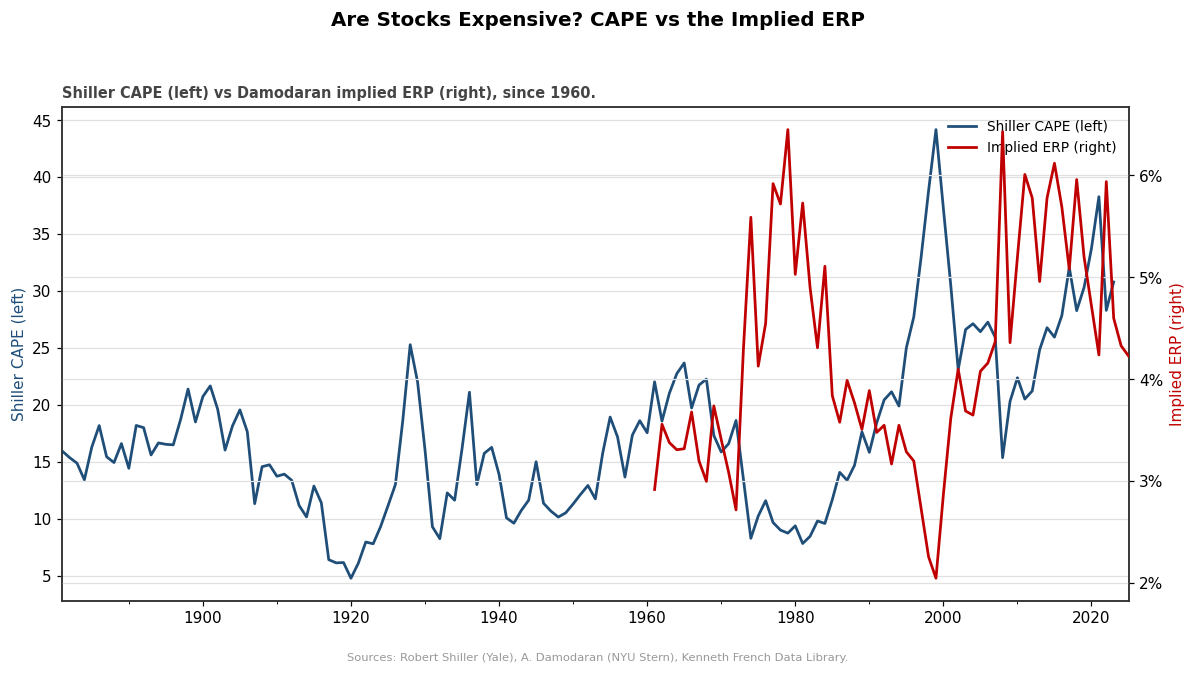
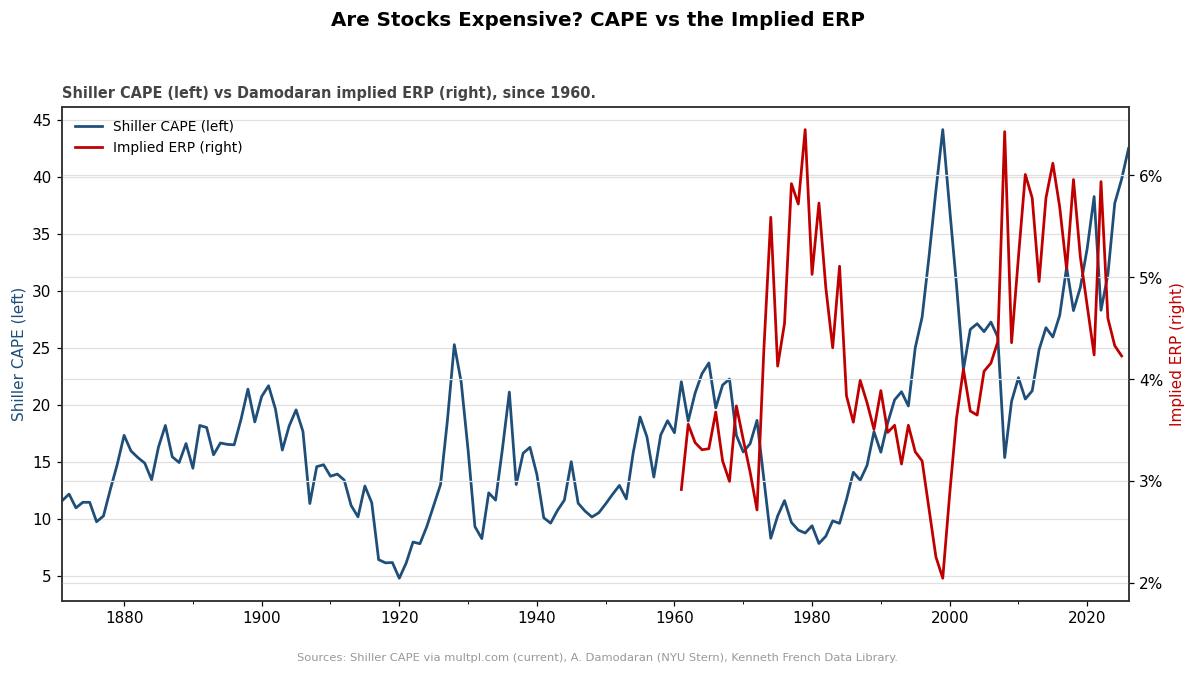
@ market: source Shiller CAPE live from multpl.com (Yale file is stale)
Robert Shiller publishes ie_data.xls only irregularly -- the copy we mirror
lagged ~2 years (to 2023-09, CAPE 30.8), badly understating todays valuation.
The CAPE itself is current at multpl.com (his underlying series, back to 1871).

- market/cape.py: fetch_cape_multpl() scrapes the monthly table (regex skips
  the &#x2002; en-space entity in the value cell); load_cape() prefers live
  multpl (cached to data/), falling back to the mirror then the stale Yale xls.
- build_charts: CAPE charts now use the live series. Latest 42.5 (Jun 2026),
  99th percentile since 1881 -- near the all-time high (only 2000 was higher);
  the 2024-26 surge that was previously cut off now shows.
- test +1 (entity-skip regex regression). 158 total green.

@

diff --git a/readable/market/index.html b/readable/market/index.html
@@ -11,5 +11,5 @@
 <h1>Top-Down Market Data — Charts</h1>
 <p class="meta">Valuation &amp; factor history from Shiller (CAPE), Damodaran (implied ERP) and
 Ken French (factors). · <a href="../index.html">↑ workspace hub</a> · 5 charts</p>
-<section><h2>Shiller CAPE vs History</h2><p class="sub">Cyclically-adjusted P/E (10-yr real earnings). Latest is in the 95th percentile of its 1881→ history.</p><img src="cape_history.png" alt="Shiller CAPE vs History"/></section><section><h2>Implied Equity Risk Premium (Damodaran)</h2><p class="sub">The forward-looking ERP the market is pricing in, back-solved from S&P prices/cashflows.</p><img src="implied_erp.png" alt="Implied Equity Risk Premium (Damodaran)"/></section><section><h2>Are Stocks Expensive? CAPE vs the Implied ERP</h2><p class="sub">High CAPE + low ERP = richly priced. The two valuation lenses, aligned.</p><img src="valuation_panel.png" alt="Are Stocks Expensive? CAPE vs the Implied ERP"/></section><section><h2>Fama-French Factors — Growth of $1 (log)</h2><p class="sub">Cumulative factor returns since 1926. Log scale — a straight line is a constant compound rate.</p><img src="factor_returns.png" alt="Fama-French Factors — Growth of $1 (log)"/></section><section><h2>The Value Premium (HML) Over Time</h2><p class="sub">Cumulative value-minus-growth return. The long plateau/drawdown since ~2007 is the 'value winter'.</p><img src="value_premium.png" alt="The Value Premium (HML) Over Time"/></section>
+<section><h2>Shiller CAPE vs History</h2><p class="sub">Cyclically-adjusted P/E (10-yr real earnings). Latest is in the 99th percentile of its 1881→ history.</p><img src="cape_history.png" alt="Shiller CAPE vs History"/></section><section><h2>Implied Equity Risk Premium (Damodaran)</h2><p class="sub">The forward-looking ERP the market is pricing in, back-solved from S&P prices/cashflows.</p><img src="implied_erp.png" alt="Implied Equity Risk Premium (Damodaran)"/></section><section><h2>Are Stocks Expensive? CAPE vs the Implied ERP</h2><p class="sub">High CAPE + low ERP = richly priced. The two valuation lenses, aligned.</p><img src="valuation_panel.png" alt="Are Stocks Expensive? CAPE vs the Implied ERP"/></section><section><h2>Fama-French Factors — Growth of $1 (log)</h2><p class="sub">Cumulative factor returns since 1926. Log scale — a straight line is a constant compound rate.</p><img src="factor_returns.png" alt="Fama-French Factors — Growth of $1 (log)"/></section><section><h2>The Value Premium (HML) Over Time</h2><p class="sub">Cumulative value-minus-growth return. The long plateau/drawdown since ~2007 is the 'value winter'.</p><img src="value_premium.png" alt="The Value Premium (HML) Over Time"/></section>
 </body></html>

diff --git a/market/cape.py b/market/cape.py
@@ -1,0 +1,61 @@
+"""Current Shiller CAPE from multpl.com.
+
+Robert Shiller's downloadable ie_data.xls is updated only irregularly (it lagged ~2 years,
+to 2023-09), but the CAPE itself is maintained current at multpl.com (his underlying series,
+back to 1871). This fetches the monthly table so the valuation charts are actually current.
+"""
+from __future__ import annotations
+
+import re
+from datetime import date
+from pathlib import Path
+
+import pandas as pd
+import requests
+
+_URL = "https://www.multpl.com/shiller-pe/table/by-month"
+_UA = {"User-Agent": "Mozilla/5.0 (macro_monitor research; jroypeterson@gmail.com)"}
+_MIRROR = Path(__file__).parent / "data"
+# Date cell, then a value cell that leads with an &#x2002; en-space entity before the number.
+_ROW = re.compile(r"<td>([A-Z][a-z]{2} \d{1,2}, \d{4})</td>\s*<td>(?:\s|&[^;]+;)*([\d.]+)")
+
+
+def fetch_cape_multpl() -> pd.Series:
+    """Monthly Shiller CAPE indexed by month-start, 1871→present. Raises on fetch/parse fail."""
+    r = requests.get(_URL, headers=_UA, timeout=30)
+    r.raise_for_status()
+    rows = _ROW.findall(r.text)
+    if len(rows) < 1000:
+        raise ValueError(f"multpl CAPE parse returned only {len(rows)} rows")
+    data = {pd.Timestamp(d).to_period("M").to_timestamp(): float(v) for d, v in rows}
+    return pd.Series(data, name="cape").sort_index()
+
+
+def save_cape(s: pd.Series, mirror: Path = _MIRROR) -> None:
+    today = date.today().isoformat()
+    (mirror / "raw" / today).mkdir(parents=True, exist_ok=True)
+    (mirror / "latest").mkdir(parents=True, exist_ok=True)
+    csv = s.to_csv()
+    (mirror / "raw" / today / "cape_multpl.csv").write_text(csv, encoding="utf-8")
+    (mirror / "latest" / "cape_multpl.csv").write_text(csv, encoding="utf-8")
+
+
+def load_cape(mirror: Path = _MIRROR, prefer_live: bool = True) -> pd.Series:
+    """Current CAPE: live multpl (cached to mirror) → mirrored CSV → stale Yale ie_data.xls."""
+    if prefer_live:
+        try:
+            s = fetch_cape_multpl()
+            save_cape(s, mirror)
+            return s
+        except Exception as exc:  # noqa: BLE001
+            print(f"[WARN] live CAPE fetch failed ({exc}); falling back to mirror/Yale file")
+    csv = mirror / "latest" / "cape_multpl.csv"
+    if csv.exists():
+        return pd.read_csv(csv, index_col=0, parse_dates=True).iloc[:, 0].dropna()
+    from .charts import parse_shiller  # last resort: the (stale) Yale spreadsheet
+    return parse_shiller()["cape"].dropna()
+
+
+if __name__ == "__main__":
+    cape = load_cape()
+    print(f"CAPE: {cape.iloc[-1]:.1f} ({cape.index[-1]:%b %Y}); {len(cape)} months from {cape.index[0]:%Y}")

diff --git a/market/build_charts.py b/market/build_charts.py
@@ -9,12 +9,13 @@ from pathlib import Path
 
 import pandas as pd
 
+from . import cape as CAPE
 from . import charts as C
 
 _MKT = Path(__file__).parent / "data" / "latest"
 _DAM = Path(__file__).parent.parent / "damodaran" / "data" / "latest"
 _OUT = Path(__file__).parent.parent / "readable" / "market"
-_SRC = "Sources: Robert Shiller (Yale), A. Damodaran (NYU Stern), Kenneth French Data Library."
+_SRC = "Sources: Shiller CAPE via multpl.com (current), A. Damodaran (NYU Stern), Kenneth French Data Library."
 
 
 def _cumulative(returns: pd.Series) -> pd.Series:
@@ -27,8 +28,8 @@ def build(out_dir: Path = _OUT) -> dict[str, Path]:
     rendered: dict[str, dict] = {}
 
     # --- 1. Shiller CAPE vs its own history -------------------------------- #
-    shiller = C.parse_shiller()
-    cape = shiller["cape"].dropna()
+    # Sourced live from multpl.com (current); Shiller's own ie_data.xls lags ~2 years.
+    cape = CAPE.load_cape().dropna()
     pctile = (cape.rank(pct=True).iloc[-1]) * 100
     rendered["cape_history"] = dict(
         title="Shiller CAPE vs History",

diff --git a/tests/test_market_charts.py b/tests/test_market_charts.py
@@ -60,3 +60,14 @@ def test_parse_damodaran_erp_smoke():
     df = C.parse_damodaran_erp()
     assert df.index.min().year <= 1961
     assert df["implied_erp"].dropna().iloc[-1] > 0
+
+
+def test_cape_regex_skips_enspace_entity():
+    # The multpl value cell leads with an &#x2002; en-space entity whose digits ("2002")
+    # must NOT be mistaken for the value — regression for that parse bug.
+    from macro_monitor.market.cape import _ROW
+
+    html = "<td>Jun 3, 2026</td>\n<td>\n&#x2002;\n42.53\n</td>\n<td>May 1, 2026</td>\n<td>&#x2002; 41.04</td>"
+    rows = _ROW.findall(html)
+    assert ("Jun 3, 2026", "42.53") in rows
+    assert ("May 1, 2026", "41.04") in rows
